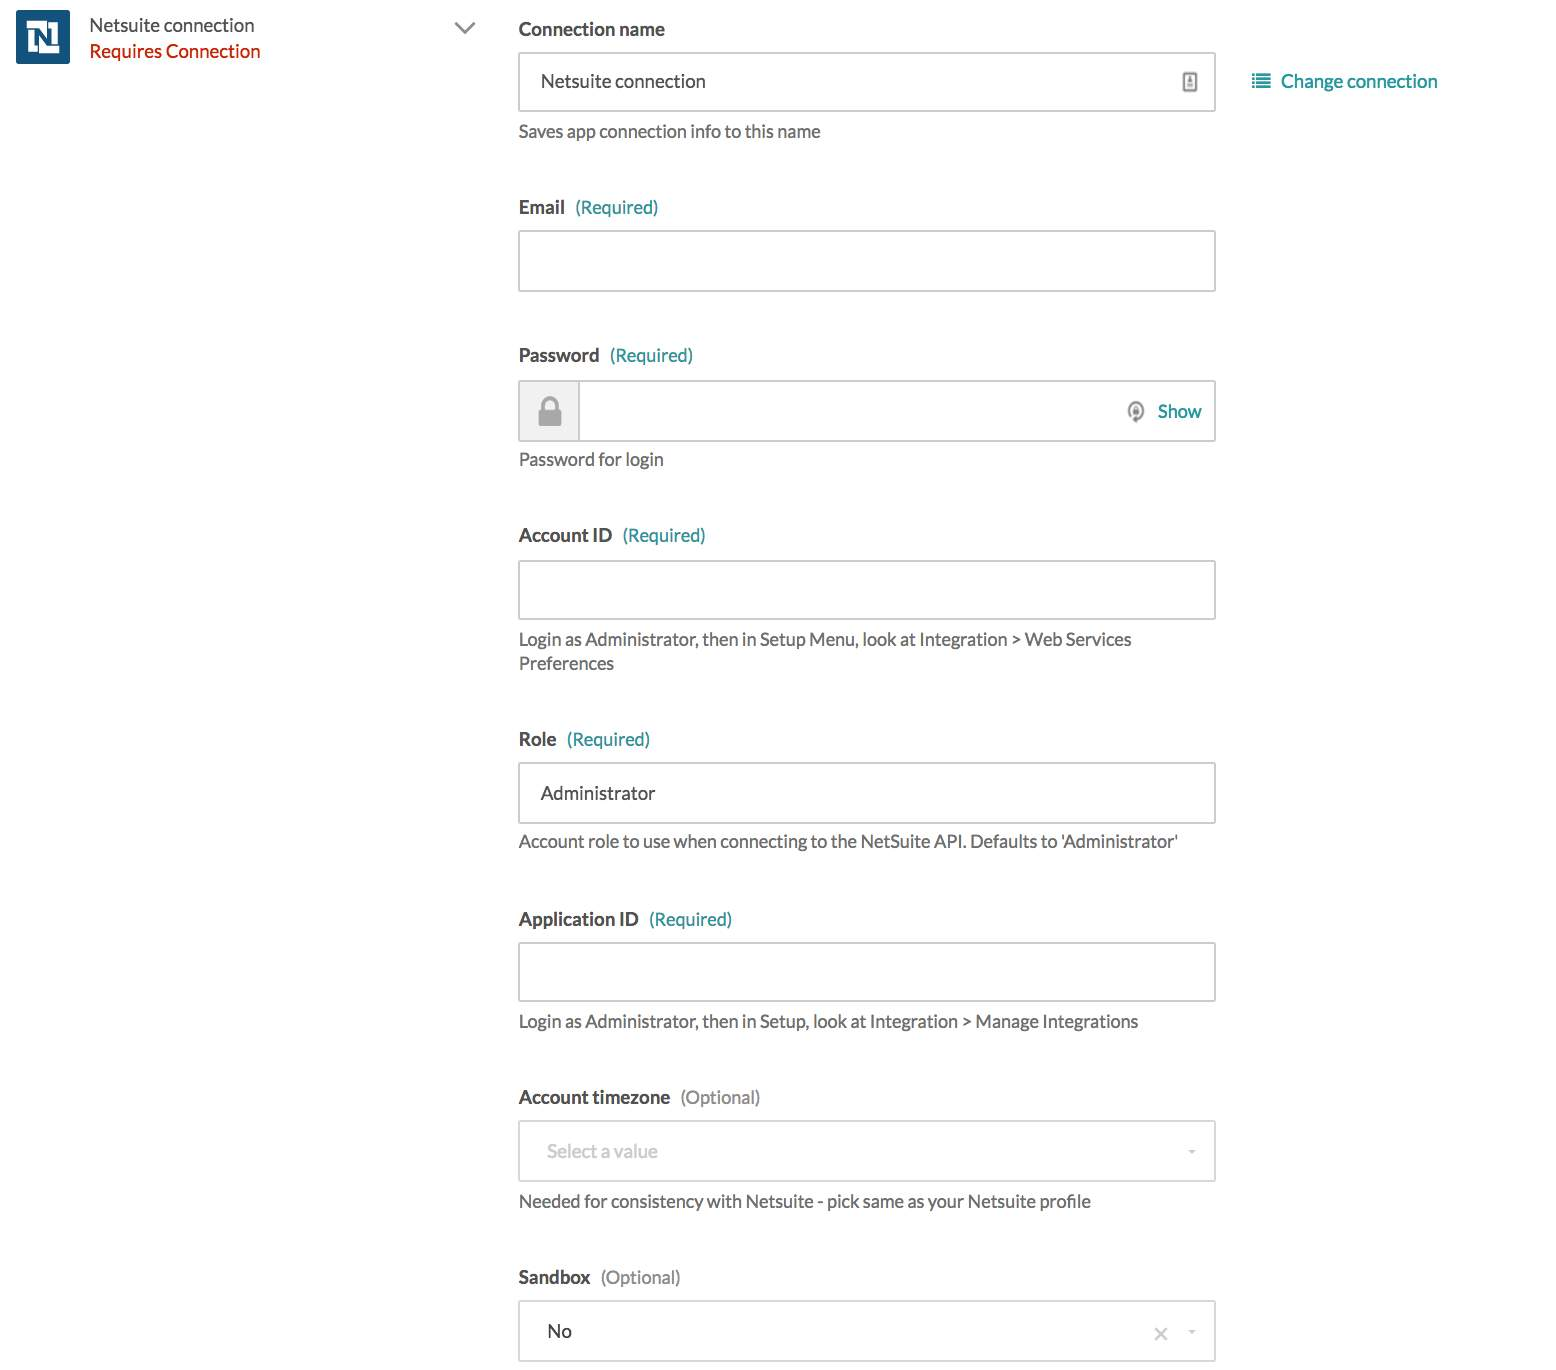
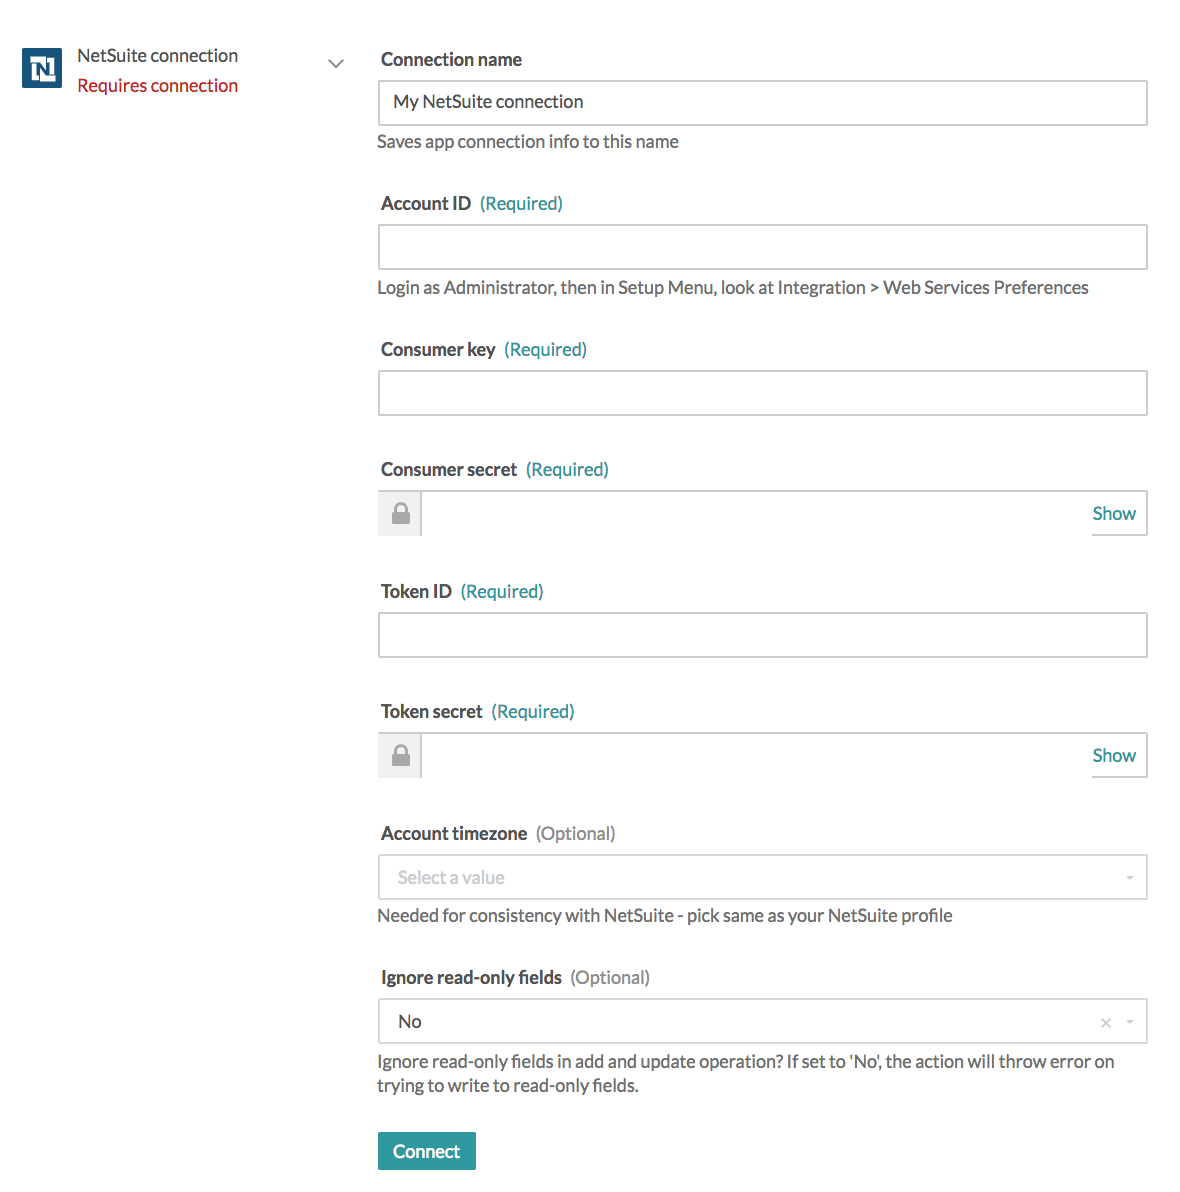
Update: role, connection fields and image

diff --git a/connectors/netsuite.md b/connectors/netsuite.md
@@ -83,7 +83,12 @@ When editing a user, under the Access tab, ensure you assign this user the integ
 Once you've set up your integration user, you're ready to connect to NetSuite on Workato!
 
 ### 5. Create access token
+Finally, create an access token for the integration user.
 
+![Setup > Users/Roles > Access Tokens > New](/assets/images/connectors/netsuite/access-token.png)
+*In NetSuite, go to Setup>Users/Roles>Access Tokens>New*
+
+Select the integration record, integration user and role we created earlier, then save. Save the token ID and token secret. his will be used for connecting to NetSuite on Workato.
 
 ### 6. Connect to NetSuite on Workato
 NetSuite asks for the following information to connect.
@@ -92,30 +97,33 @@ NetSuite asks for the following information to connect.
 
 The following details more information about each field.
 
-- Email and password
-
-This is the email and password of your integration user
-
 - Account ID
 
 Retrieve the account ID of your NetSuite instance from Integration>Web Services Preferences
 
-- Role
+- Consumer key
 
-Name of the role you've just created
+Consumer key from the integration record that you've just created
 
-- Application ID
+- Consumer secret
 
-Retrieve the application ID from Integration>Manage Integrations
+Consumer secret from the integration record that you've just created
+
+- Token ID
+
+Token ID from the access token that you've just created
+
+- Token secret
+
+Token secret from the access token that you've just created
 
 - Account timezone
 
 Select the timezone of your NetSuite instance in order to ensure that the dates in your NetSuite account are handled accurately. All datetime values used in actions/triggers for the NetSuite connection will be based on this timezone.
 
+- Ignore read-only fields
 
-- Sandbox
-
-Select True or False depending on whether the NetSuite instance you're trying to connect to is a sandbox or not
+If set to Yes, read-only fields will be omitted from create and update actions. If set to No, read-only field will appear in create and update actions. Trying to create or update these read-only field will cause an error.
 
 ## Working with the NetSuite connector
 
